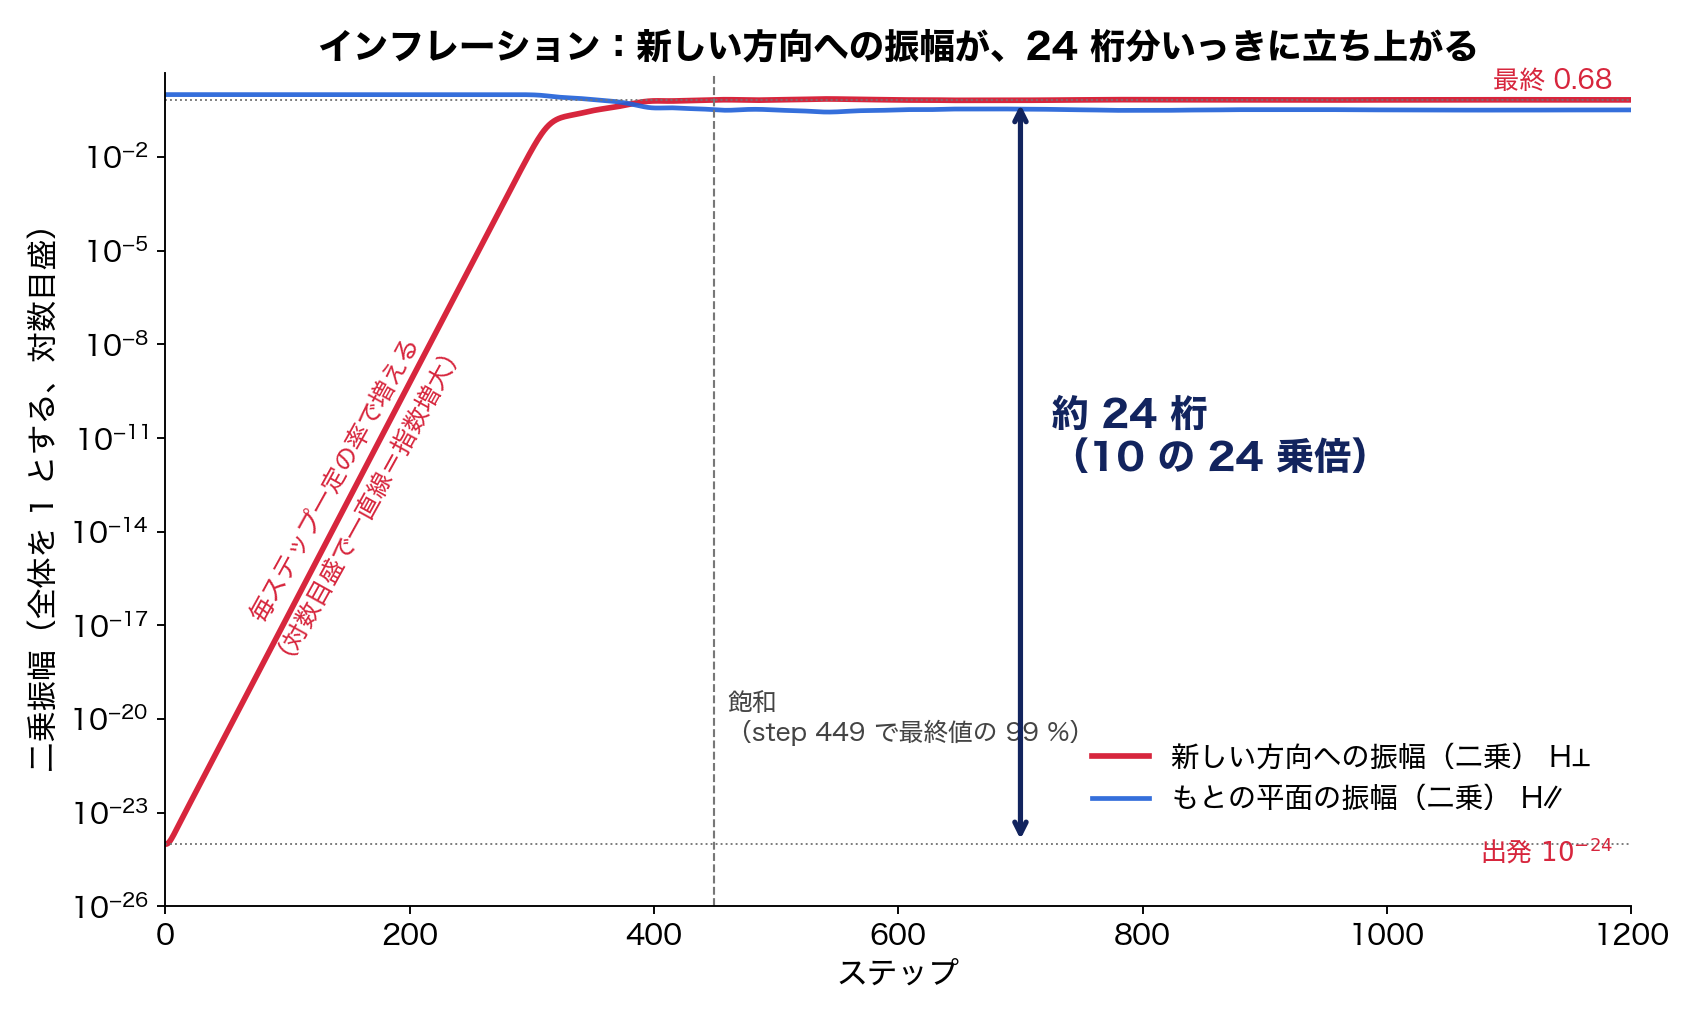
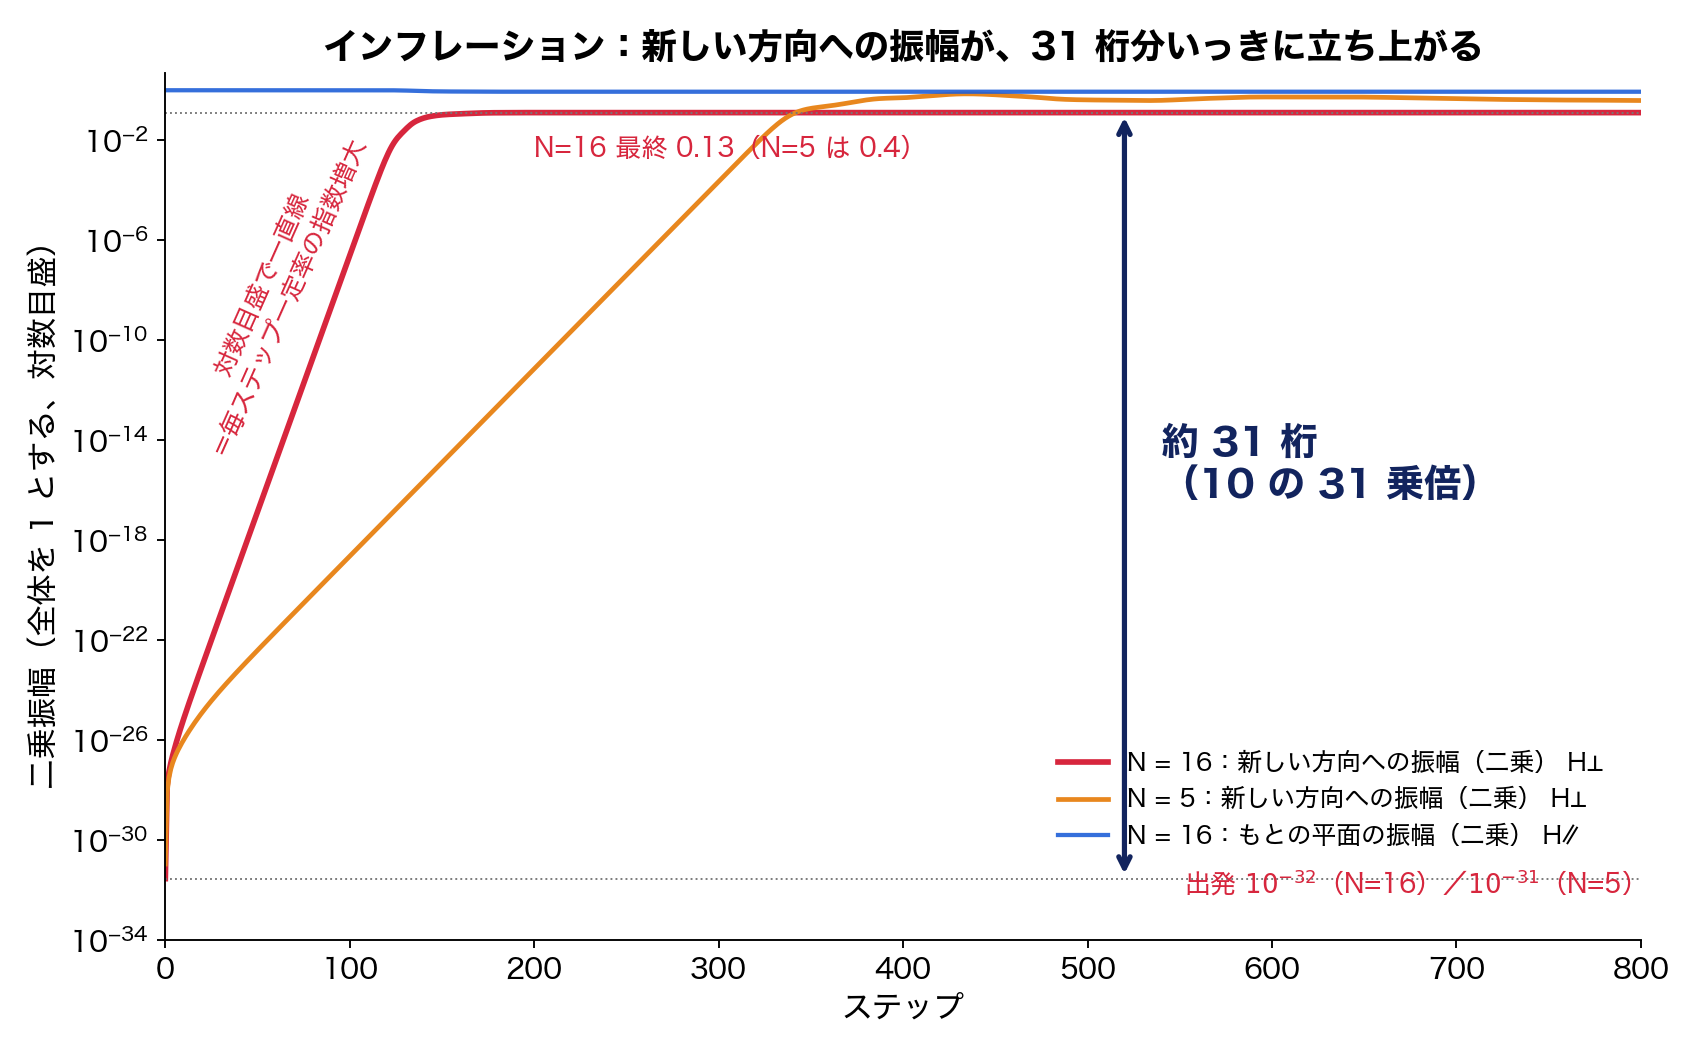
note原稿：図1をN=5/N=16の同一系列（10⁻³²→31桁）に差替え、桁数と出発点の依存を明記

diff --git a/次元の生成構造/インフレーションは倒れかけの波に書き込まれていた_note完成稿.md b/次元の生成構造/インフレーションは倒れかけの波に書き込まれていた_note完成稿.md
@@ -21,21 +21,21 @@
 
 今回の論文は、この三つに数で答えます。そして途中で、私たち自身が置いていた公理が一つ減りました。
 
-## 何が増えていたのか——新しい方向への振幅が、24桁増えていた
+## 何が増えていたのか——新しい方向への振幅が、31桁増えていた
 
 まず、何が増えたのかを、はっきり書きます。
 
 澄んだ波は、最初、ある一つの平面の上に乗っています。急拡大で増えたのは、**その平面の外、つまり新しい方向への振幅**です。
 
-数字で言うと、こうです。新しい方向の成分（振幅の二乗）は、出発時には全体の 10⁻²⁴ しかありません。それが急拡大の数百ステップで 0.68 まで増えます。**約 24 桁、10 の 24 乗倍**です。これがインフレーションです。
+数字で言うと、こうです。新しい方向の成分（振幅の二乗）は、出発時には全体の 10⁻³² しかありません。それが急拡大の数百ステップで、16 体の系では 0.13 まで、5 体の系では 0.4 まで増えます。**約 31 桁、10 の 31 乗倍**です。これがインフレーションです。なお出発点の深さは、澄んだ波をどこまで正確に釣り合わせたかで決まります（次の節で見ます）。釣り合いが浅い走行では出発は 10⁻²⁴ で、立ち上がりは 24 桁になります。
 
 （ここに図1を挿入）
 
-![インフレーション：新しい方向への振幅が24桁立ち上がる](note_figs_self_consistent_inflation/note_fig0_inflation_log.png)
+![インフレーション：新しい方向への振幅が31桁立ち上がる](note_figs_self_consistent_inflation/note_fig0_inflation_log.png)
 
-図1。縦軸は対数目盛。赤が新しい方向への振幅（二乗）で、10⁻²⁴ から 0.68 まで、約 24 桁を一直線に駆け上がります。青はもとの平面の振幅で、赤が大きくなるのと入れ替わりに 1 から 0.32 へ落ちます。
+図1。縦軸は対数目盛。赤は 16 体の系で、新しい方向への振幅（二乗）が 10⁻³² から 0.13 まで、約 31 桁を一直線に駆け上がります。橙は 5 体の系で、10⁻³¹ から 0.4 へ、やはり約 31 桁。青は 16 体のもとの平面の振幅で、赤が大きくなるのと入れ替わりに落ちていきます。
 
-では、その 24 桁分は、どこから来たのでしょうか。外からエネルギーを注ぎ込んだのでしょうか。
+では、その 31 桁分は、どこから来たのでしょうか。外からエネルギーを注ぎ込んだのでしょうか。
 
 答えは、注ぎ込んでいません。**合計は一円も増えていません。**
 
@@ -43,7 +43,7 @@
 
 これは実験で確かめたことではなく、更新則そのものの性質です。数値誤差 10⁻¹⁵ で「ほぼ一定」に見えていたものは、本当は厳密に一定だったのです。
 
-合計が一定で、新しい方向が 24 桁増えた。ならば、減ったものがあるはずです。それが、もとの平面の振幅です。1 だったものが 0.32 まで減り、その分の 0.68 が新しい方向へ移りました。
+合計が一定で、新しい方向が 31 桁増えた。ならば、減ったものがあるはずです。それが、もとの平面の振幅です。5 体の系で言えば、1 だったものが 0.32 まで減り、その分の 0.68 が新しい方向へ移りました。
 
 **急拡大の正体は、新しい方向への振幅の指数的な増大であり、その中身は、もとの平面から新しい方向への移送です。**
 
@@ -51,11 +51,11 @@
 
 ![急拡大の正体は移送——合計は増えていない](note_figs_self_consistent_inflation/note_fig1_transfer.png)
 
-図2。図1と同じ過程を、普通の目盛りで見たものです。青は、もともとの平面にあった成分。赤は、新しい方向へ移った成分。緑の破線が合計で、5000 ステップの間、誤差 4×10⁻¹⁶ で一定のままです。赤が伸びた分だけ、青が減っています。
+図2。5 体の系の同じ過程を、普通の目盛りで見たものです（釣り合いの精度が浅い別の走行で、出発は 10⁻²⁴）。青は、もともとの平面にあった成分。赤は、新しい方向へ移った成分。緑の破線が合計で、5000 ステップの間、誤差 4×10⁻¹⁶ で一定のままです。赤が伸びた分だけ、青が減っています。
 
 そしてこの事実が、三つ目の問い「なぜ止まるのか」の半分に、その場で答えてしまいます。
 
-合計が一定なら、新しい方向の成分は合計を超えられません。24 桁増えても、上限は 1 です。**無限に増え続けないことは、力学以前に、算数で決まっていた**のです。残る問いは「なぜ、この特定の形で落ち着くのか」だけになりました。
+合計が一定なら、新しい方向の成分は合計を超えられません。31 桁増えても、上限は 1 です。**無限に増え続けないことは、力学以前に、算数で決まっていた**のです。残る問いは「なぜ、この特定の形で落ち着くのか」だけになりました。
 
 ## なぜ始まるのか——最初のズレの大きさが、始まる時刻を決める
 
@@ -241,7 +241,7 @@
 
 今回、発見したと言えることは次の通りです。
 
-- 急拡大で増えたのは、新しい方向への振幅である（10⁻²⁴ から 0.68 へ、約 24 桁）。波の全体の大きさと閉じている条件は厳密に保存されるので、その正体はもとの平面からの移送であり、合計を超えないことは算数で決まる
+- 急拡大で増えたのは、新しい方向への振幅である（10⁻³² から、16 体で 0.13、5 体で 0.4 へ、約 31 桁）。波の全体の大きさと閉じている条件は厳密に保存されるので、その正体はもとの平面からの移送であり、合計を超えないことは算数で決まる
 - 急拡大の始まりは、倒れかけの澄んだ波の線形不安定性である。始まる時刻は最初のズレの対数で決まり、速さはズレによらない
 - 釣り合いの位置で計算した固有値 μ₁ = 1.0901 が、時間発展の成長率と、始動時刻の傾きを同時に予言する（三重整合）
 - 倒れる方向はちょうど2次元で、もとの2次元と足して rank 4 になる
